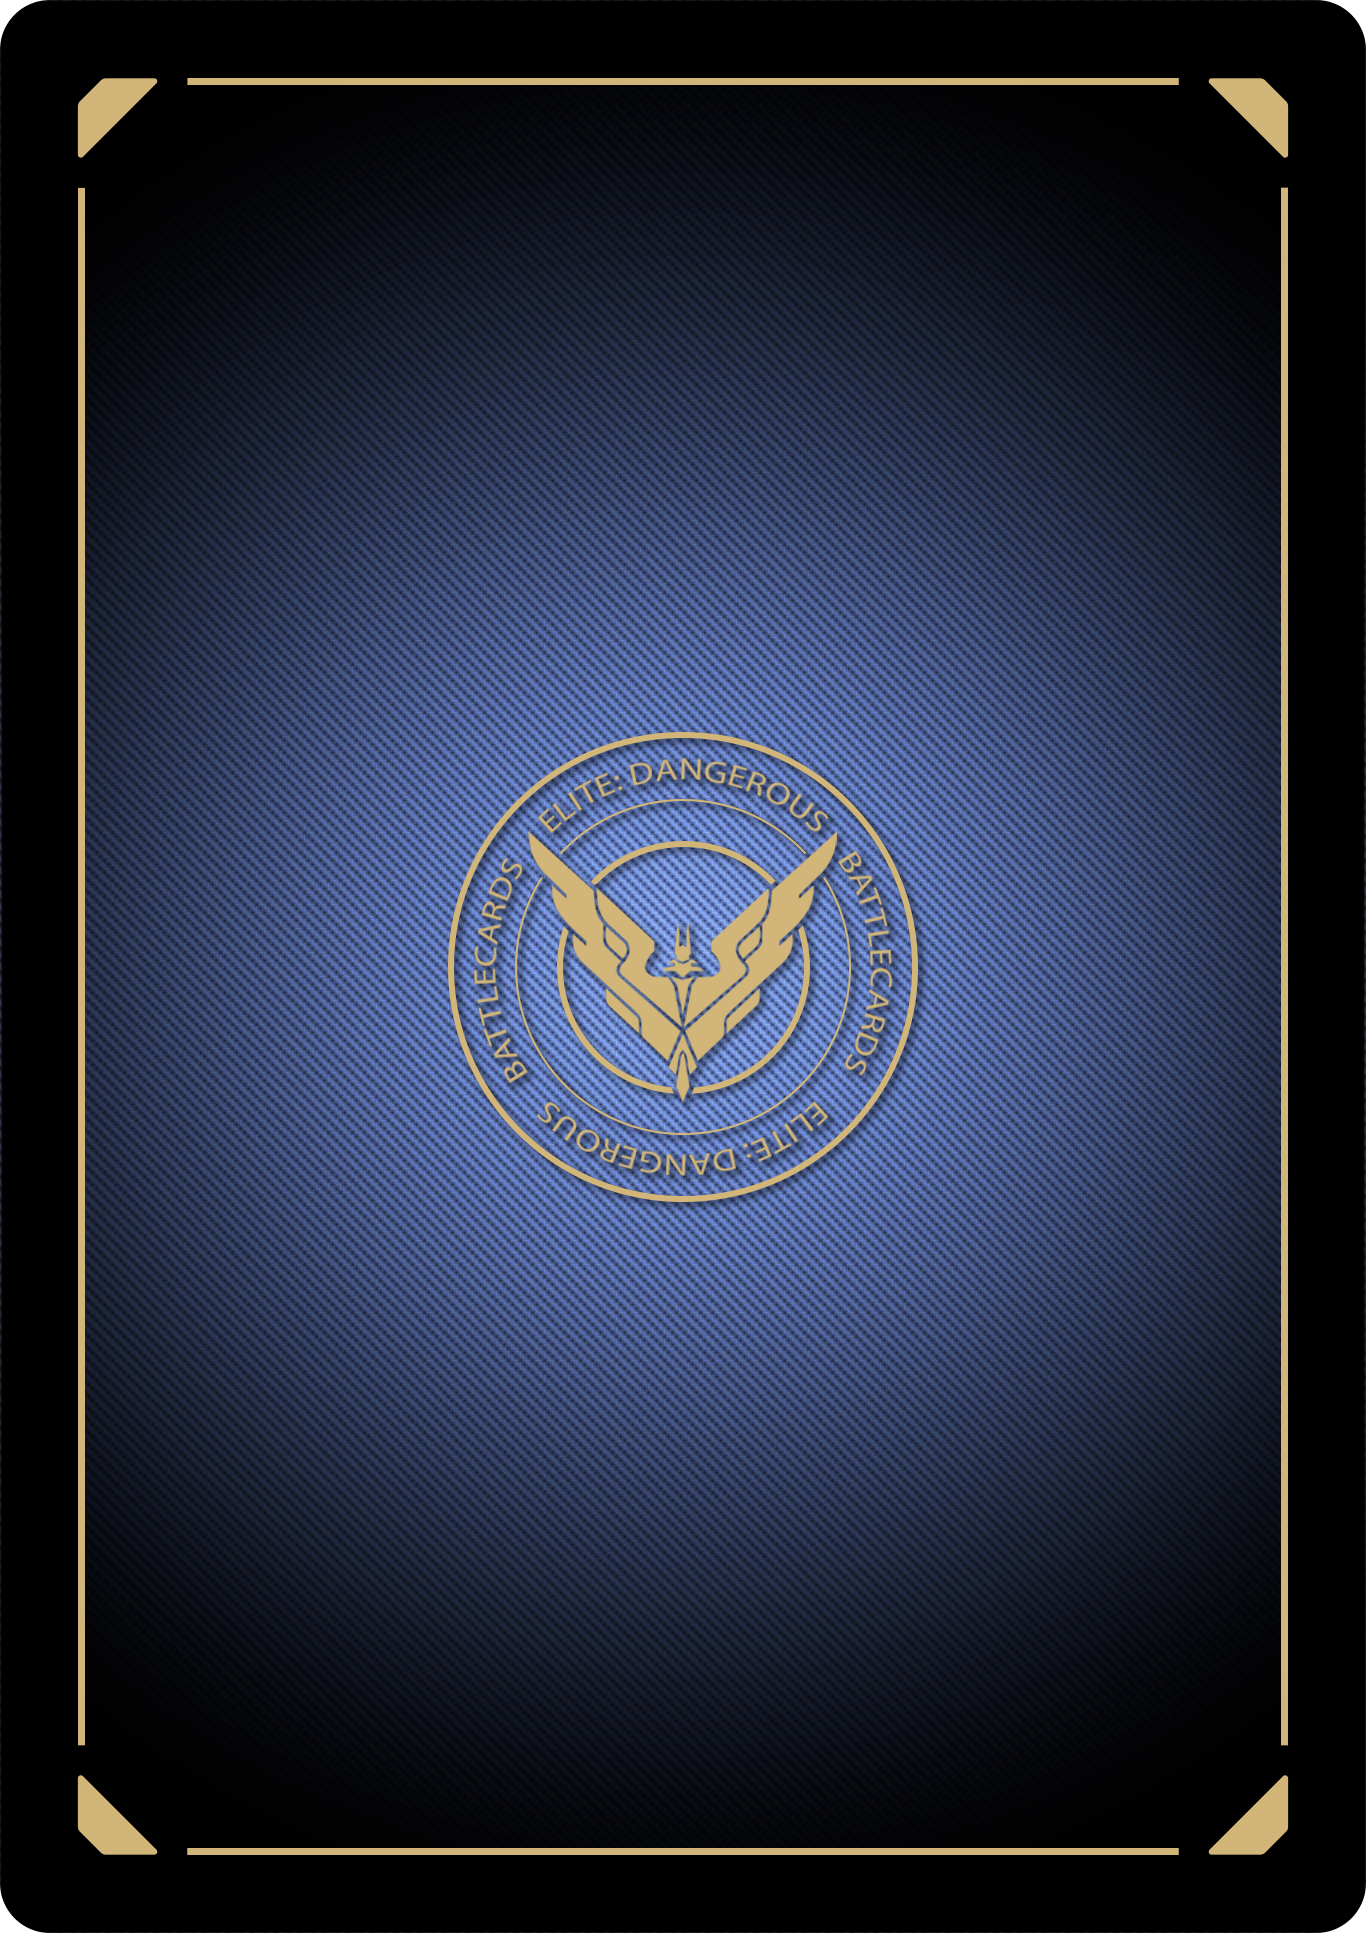
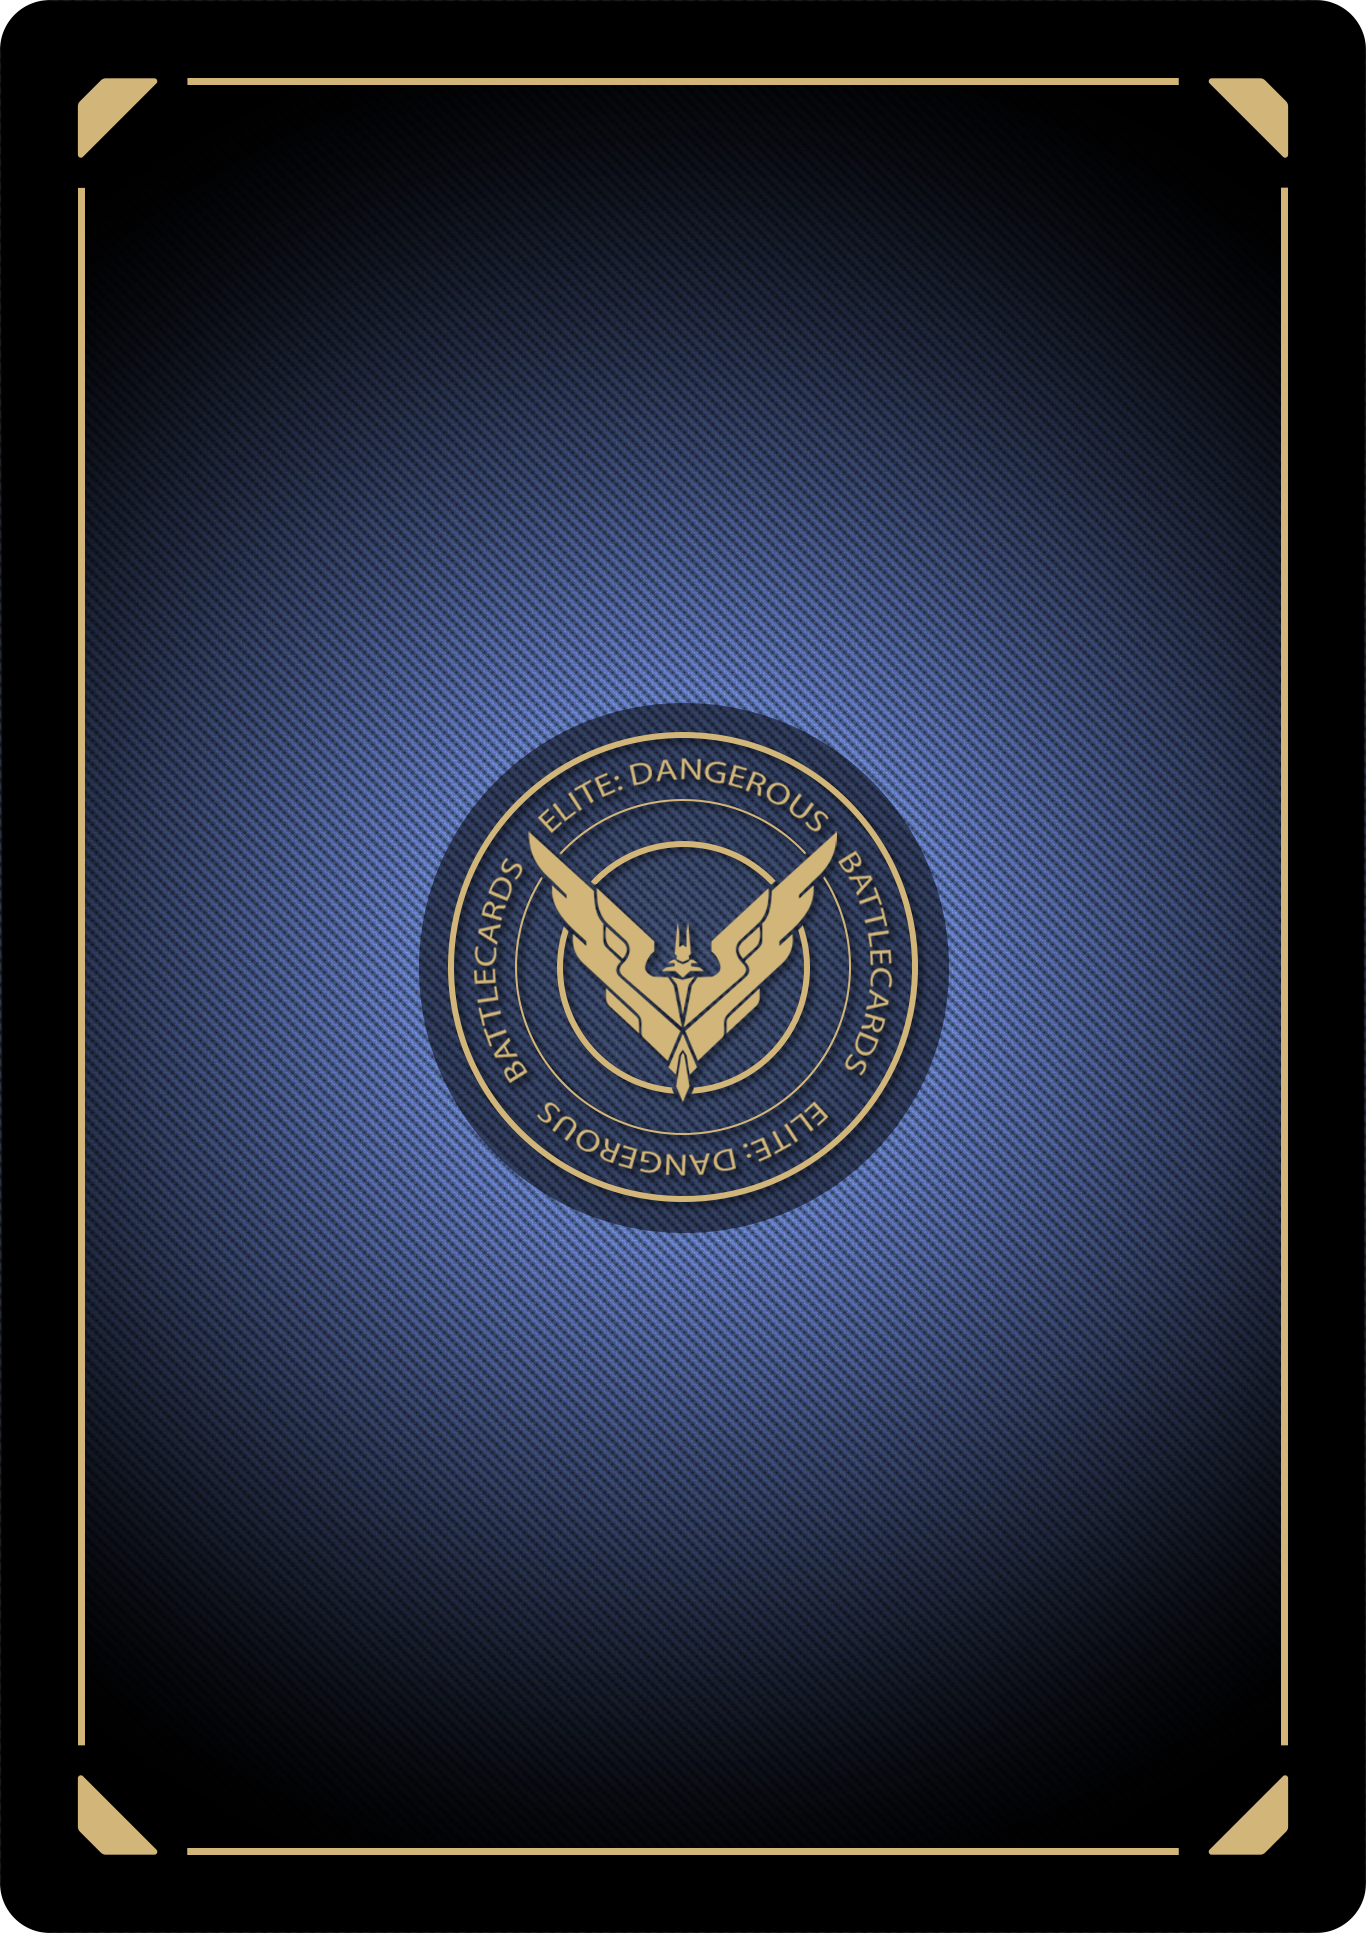
Visual updates

Changed region(s): [[0.3075, 0.3414, 0.7072, 0.6518]]

diff --git a/src/engine/CardBase.ts b/src/engine/CardBase.ts
@@ -109,6 +109,7 @@ export default class CardBase extends Phaser.GameObjects.Container {
     /* Background */
     bg: Phaser.GameObjects.Image;
     back: Phaser.GameObjects.Image;
+    frameDrained: Phaser.GameObjects.Image;
 
     /* Faction icon */
     factionIcon: Phaser.GameObjects.Image;
@@ -295,6 +296,9 @@ export default class CardBase extends Phaser.GameObjects.Container {
         /* Create Card Back */
         this.back = scene.add.image(0, 0, "card_back");
 
+        /* Frames */
+        this.frameDrained = scene.add.image(0, 0, "drained").setAlpha(0);
+
         /* Add object to container */
         this.add(this.bg);
         this.add(this.factionIcon);
@@ -313,6 +317,7 @@ export default class CardBase extends Phaser.GameObjects.Container {
             this.add(this.cost);
         }
         this.add(this.back);
+        this.add(this.frameDrained);
 
         /* Set Object position */
         this.setPosition(x, y);
@@ -436,7 +441,7 @@ export default class CardBase extends Phaser.GameObjects.Container {
                 x: this.preZoomXPos,
                 y: this.preZoomYPos,
                 scale: 0.1,
-                duration: 500,
+                duration: 300,
                 ease: "Cubic.inOut",
                 yoyo: false,
                 repeat: 0,
@@ -487,6 +492,29 @@ export default class CardBase extends Phaser.GameObjects.Container {
             scale: 0.1,
             duration: 100,
             ease: "Cubic.inOut"
+        })
+    }
+
+    drain() {
+        this.frameDrained.setAlpha(0);
+        this.scene.tweens.add({
+            targets: this.frameDrained,
+            alpha: .5,
+            duration: 500,
+            yoyo: false,
+            ease: "Power1.inOut",
+            repeat: 0
+        })
+    }
+
+    undrain() {
+        this.scene.tweens.add({
+            targets: this.frameDrained,
+            alpha: 0,
+            duration: 1000,
+            yoyo: false,
+            ease: "Power1.inOut",
+            repeat: 0
         })
     }
 }

diff --git a/src/scenes/Board.ts b/src/scenes/Board.ts
@@ -198,6 +198,7 @@ export default class Board extends Phaser.Scene {
 
         this.input.mouse.disableContextMenu();
 
+        /*
         this.input.on(
             "gameobjectover",
             function (pointer: Phaser.Input.Pointer, object: CardBase) {
@@ -213,12 +214,13 @@ export default class Board extends Phaser.Scene {
                 object.unhover();
             }, this
         );
+        */
 
         this.input.on(
             "gameobjectdown",
             function (pointer, object: CardBase) {
                 object.trigger();
-                object.unhover();
+                //object.unhover();
             },
             this
         );
@@ -253,6 +255,8 @@ export default class Board extends Phaser.Scene {
             },
             this
         );
+
+        card2.drain();
 
     }
 

diff --git a/src/scenes/AssetsPreload.ts b/src/scenes/AssetsPreload.ts
@@ -9,6 +9,9 @@ export function edbc_preload(scene: Phaser.Scene) {
      /* Card Back */
      scene.load.image('card_back', 'assets/images/cards/common/edbc_frame_back.png');
 
+     /* Frames */
+     scene.load.image('drained', 'assets/images/cards/common/edbc_frame_drained.png')
+
      /* Ship Card Backgrounds */
      scene.load.image('bg_ship_alliance', 'assets/images/cards/common/edbc_ship_card_bg__alliance.png');
      scene.load.image('bg_ship_empire', 'assets/images/cards/common/edbc_ship_card_bg__empire.png');
